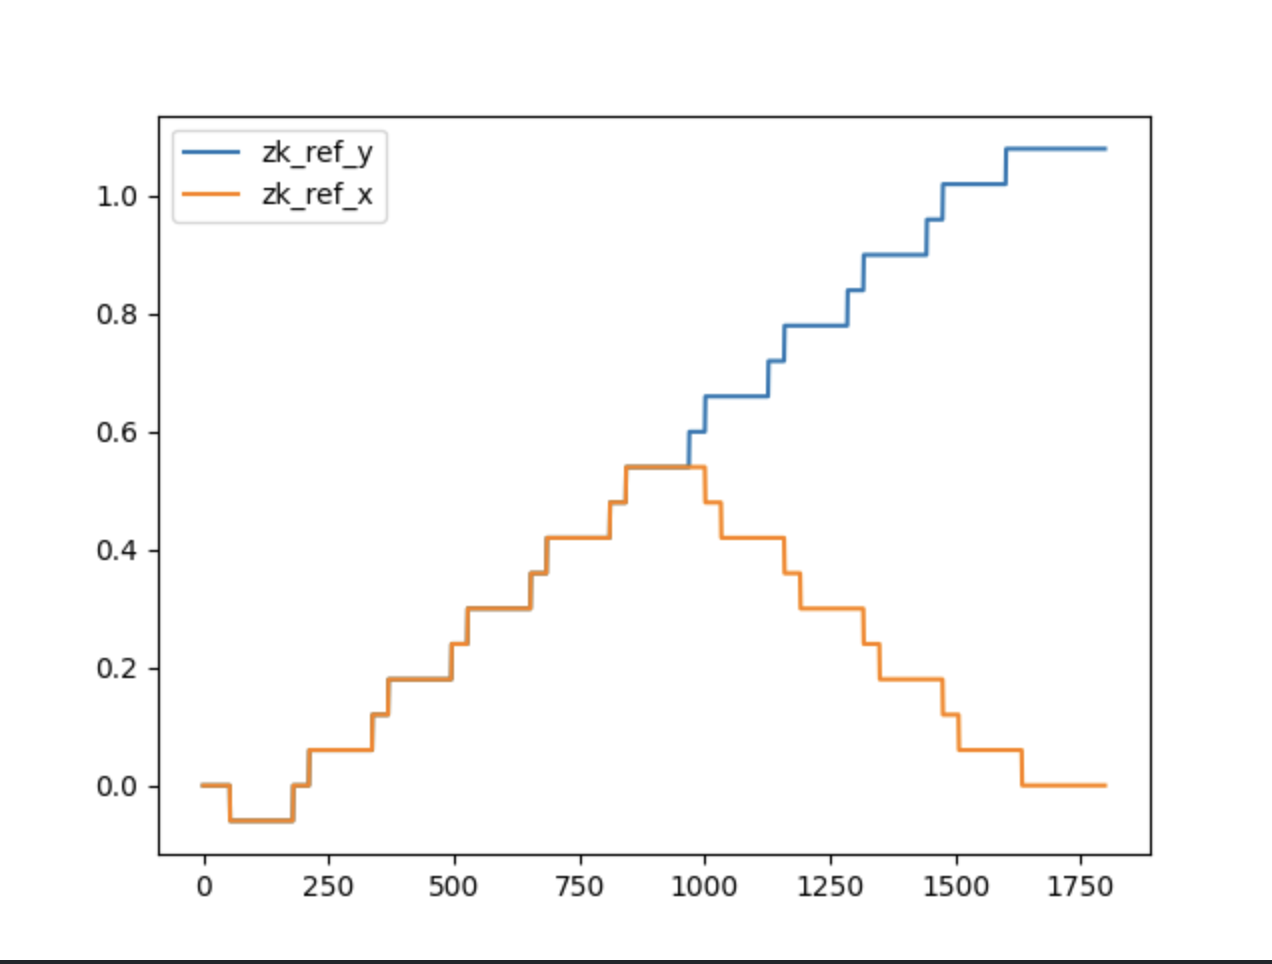
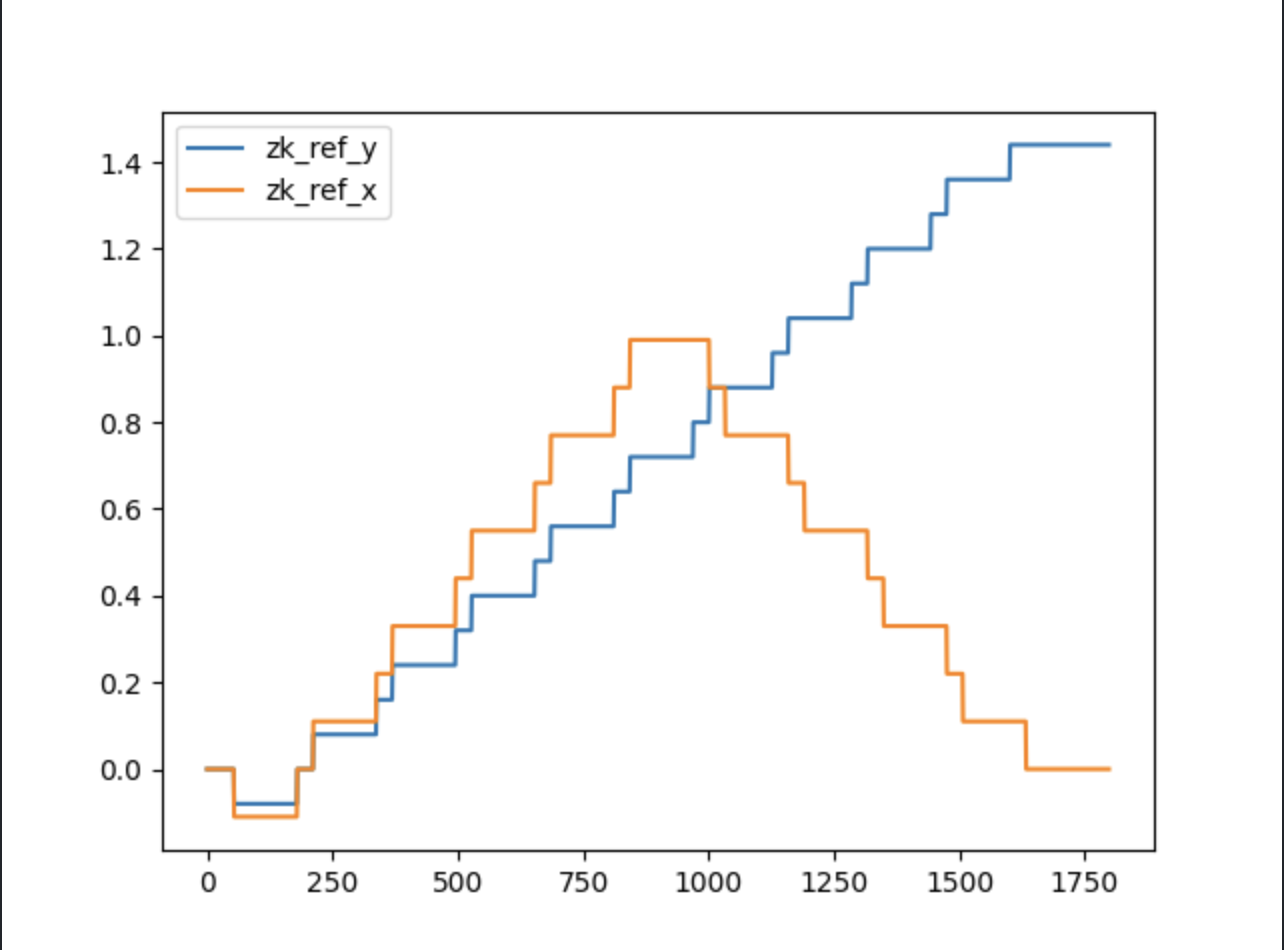
circular trajectory sin

Changed region(s): [[0.0613, 0.0916, 0.9198, 0.9463], [0.0, 0.9768, 1.0, 1.0], [0.4906, 0.3358, 0.5519, 0.3663]]

diff --git a/src/utils.py b/src/utils.py
@@ -271,8 +271,6 @@ def construct_zmin_zmax_moving2(steps, duration_double_init, duration_step, dura
         zk_min += [(step_number-1) * foot_size] * int(steps * duration_transition)
         zk_max += [(step_number+1) * foot_size] * int(steps * duration_transition)
 
-
-
     #The robot starts moving backwards
     for step_number in range(int(duration_back * number_of_steps), number_of_steps):
         if step_number == int(duration_back * number_of_steps):
@@ -300,6 +298,145 @@ def construct_zmin_zmax_moving2(steps, duration_double_init, duration_step, dura
 
 
 
+
+
+def construct_zmin_zmax_sin(steps, duration_double_init, duration_step, duration_transition,
+                        foot_size, spacing, number_of_periods):
+    """
+        The robot moves forward to a certain point, then moves backwards
+        Construct the minimum and maximum for the center of pressure
+        This is for a moving robot
+        The duration of the support is expressed as percentage of steps
+        The values of the double support are in [min_val_left, max_val_right]
+        :param steps: number of steps of the whole simulation
+               duration_back: the moment where the robot starts going backwards
+        :return: two arrays z_min and z_max
+        """
+
+    # Initial double support
+    zk_max = [foot_size] * int(steps * duration_double_init)
+    zk_min = [-foot_size] * int(steps * duration_double_init)
+
+    zk_min_up, zk_max_up = construct_half_period_up(int(steps * (1/(2*number_of_periods))), foot_size, duration_step,
+                                                    duration_transition)
+
+    zk_min_down, zk_max_down = construct_half_period_down(int(steps * (1/(2*number_of_periods))), foot_size, duration_step,
+                                                          duration_transition)
+
+
+    for _ in range(number_of_periods):
+        zk_min += zk_min_up + zk_min_down
+        zk_max += zk_max_up + zk_max_down
+    zk_min += [zk_min[-1]] * abs(steps - len(zk_min))
+    zk_max += [zk_max[-1]] * abs(steps - len(zk_max))
+
+    return np.array(zk_min), np.array(zk_max)
+
+
+def construct_half_period_down(steps, foot_size, duration_step, duration_transition):
+    zk_min, zk_max = [], []
+    # Lifting foot first step
+    zk_max += [foot_size] * int(steps * duration_step)
+    zk_min += [0] * int(steps * duration_step)
+
+    # First Transition
+    zk_max += [foot_size] * int(steps * duration_transition)
+    zk_min += [-foot_size] * int(steps * duration_transition)
+
+    # Number of steps to take
+    number_of_steps = int((steps - len(zk_min)) / ((duration_step + duration_transition) * steps))
+
+    for step_number in range(1, int(0.5 * number_of_steps)):
+        # Lifting foot for a step
+        zk_max += [-(step_number - 1) * foot_size] * int(steps * duration_step)
+        zk_min += [-step_number * foot_size] * int(steps * duration_step)
+        # Transition
+        zk_max += [-(step_number - 1) * foot_size] * int(steps * duration_transition)
+        zk_min += [-(step_number + 1) * foot_size] * int(steps * duration_transition)
+
+    # The robot starts moving backwards
+    for step_number in range(int(0.5 * number_of_steps), number_of_steps):
+        if step_number == int(0.5 * number_of_steps):
+            # Lifting foot for a step
+            zk_max += [-(number_of_steps - step_number - 1) * foot_size] * int(steps * duration_step)
+            zk_min += [-(number_of_steps - 1 - step_number + 1) * foot_size] * int(steps * duration_step)
+            # Transition
+            zk_max += [-(number_of_steps - step_number - 1) * foot_size] * int(steps * duration_transition)
+            zk_min += [-(number_of_steps - 1 - step_number + 1) * foot_size] * int(steps * duration_transition)
+            # Transition
+            zk_max += [-(number_of_steps - 1 - step_number - 1) * foot_size] * int(steps * duration_transition)
+            zk_min += [-(number_of_steps - 1 - step_number + 1) * foot_size] * int(steps * duration_transition)
+        elif step_number == number_of_steps-1:
+            # This function is mainly used for the sin and cos functions, and we don't want to stop (No double support)
+            # between half periods, the transition will be accounted for in the beginning of the following references
+            # Lifting foot for a step
+            # Lifting foot for a step
+            zk_max += [-(number_of_steps - step_number - 1) * foot_size] * int(steps * duration_step)
+            zk_min += [-(number_of_steps - 1 - step_number + 1) * foot_size] * int(steps * duration_step)
+
+        else:
+            # Lifting foot for a step
+            zk_max += [-(number_of_steps - step_number - 1) * foot_size] * int(steps * duration_step)
+            zk_min += [-(number_of_steps - 1 - step_number + 1) * foot_size] * int(steps * duration_step)
+            # Transition
+            zk_max += [-(number_of_steps - 1 - step_number - 1) * foot_size] * int(steps * duration_transition)
+            zk_min += [-(number_of_steps - 1 - step_number + 1) * foot_size] * int(steps * duration_transition)
+
+
+    return zk_min, zk_max
+
+
+
+def construct_half_period_up(steps, foot_size, duration_step, duration_transition):
+
+    zk_min, zk_max = [], []
+    # Lifting foot first step
+    zk_min += [-foot_size] * int(steps * duration_step)
+    zk_max += [0] * int(steps * duration_step)
+
+    # First Transition
+    zk_min += [-foot_size] * int(steps * duration_transition)
+    zk_max += [foot_size] * int(steps * duration_transition)
+
+    # Number of steps to take
+    number_of_steps = int((steps - len(zk_min)) / ((duration_step + duration_transition) * steps))
+
+    for step_number in range(1, int(0.5 * number_of_steps)):
+        # Lifting foot for a step
+        zk_min += [(step_number - 1) * foot_size] * int(steps * duration_step)
+        zk_max += [step_number * foot_size] * int(steps * duration_step)
+        # Transition
+        zk_min += [(step_number - 1) * foot_size] * int(steps * duration_transition)
+        zk_max += [(step_number + 1) * foot_size] * int(steps * duration_transition)
+
+    # The robot starts moving backwards
+    for step_number in range(int(0.5 * number_of_steps), number_of_steps):
+        if step_number == int(0.5 * number_of_steps):
+            # Lifting foot for a step
+            zk_min += [(number_of_steps - step_number - 1) * foot_size] * int(steps * duration_step)
+            zk_max += [(number_of_steps - 1 - step_number + 1) * foot_size] * int(steps * duration_step)
+            # Transition
+            zk_min += [(number_of_steps - step_number - 1) * foot_size] * int(steps * duration_transition)
+            zk_max += [(number_of_steps - 1 - step_number + 1) * foot_size] * int(steps * duration_transition)
+            # Transition
+            zk_min += [(number_of_steps - 1 - step_number - 1) * foot_size] * int(steps * duration_transition)
+            zk_max += [(number_of_steps - 1 - step_number + 1) * foot_size] * int(steps * duration_transition)
+        elif step_number == number_of_steps-1:
+            # This function is mainly used for the sin and cos functions, and we don't want to stop (No double support)
+            # between half periods, the transition will be accounted for in the beginning of the following references
+            # Lifting foot for a step
+            # Lifting foot for a step
+            zk_min += [(number_of_steps - step_number - 1) * foot_size] * int(steps * duration_step)
+            zk_max += [(number_of_steps - 1 - step_number + 1) * foot_size] * int(steps * duration_step)
+        else:
+            # Lifting foot for a step
+            zk_min += [(number_of_steps - step_number - 1) * foot_size] * int(steps * duration_step)
+            zk_max += [(number_of_steps - 1 - step_number + 1) * foot_size] * int(steps * duration_step)
+            # Transition
+            zk_min += [(number_of_steps - 1 - step_number - 1) * foot_size] * int(steps * duration_transition)
+            zk_max += [(number_of_steps - 1 - step_number + 1) * foot_size] * int(steps * duration_transition)
+
+    return zk_min, zk_max
 
 
 def construct_zref(steps):

diff --git a/src/circle.py b/src/circle.py
@@ -1,0 +1,84 @@
+from utils import *
+from simulations import *
+import matplotlib.pyplot as plt
+
+
+
+
+def main():
+    t_step = 5e-3
+    # We simulate from 0 to 9 (s)
+    steps = int(9 / t_step)
+    g = 9.81
+    h_com = 0.8
+    r_q = 1e-6
+    xk_init = (0, 0, 0)
+    yk_init = (0, 0, 0)
+
+    alpha = 1
+    gamma = 1
+    theta_ref = np.array([np.pi/4 for _ in range(steps)])
+    foot_dimensions = np.array([0.12, 0.06])  # length x width
+
+
+    zk_min_x, zk_max_x = construct_zmin_zmax_sin(steps=steps, duration_double_init=0.03,
+                                                    duration_step=0.07, duration_transition=0.018, foot_size=0.22,
+                                                    spacing=0.14, number_of_periods=10)
+
+    plt.plot(zk_min_x, label="zk_min")
+    plt.plot(zk_max_x, label="zk_max")
+    plt.plot((zk_min_x + zk_max_x)/2, label="zk_ref", linewidth="0.4")
+    plt.legend()
+    plt.show()
+
+    # zk_min_y, zk_max_y = construct_zmin_zmax_moving(steps=steps, duration_double_init=0.03,
+    #                                                  duration_step=0.07, duration_transition=0.018, foot_size=0.16,
+    #                                                  spacing=0.14)
+    #
+    # zk_ref_x = (zk_min_x + zk_max_x)/2
+    # zk_ref_y = (zk_min_y + zk_max_y)/2
+    #
+    # plt.plot(zk_ref_y, label="zk_ref_y")
+    # plt.plot(zk_ref_x, label="zk_ref_x")
+    # plt.legend()
+    # plt.show()
+    #
+    # cop_x, com_x, cop_y, com_y, t = simulation_qp_coupled(t_step, steps, g, h_com, xk_init, yk_init,
+    #                                                       zk_ref_x, zk_ref_y,
+    #                                                       alpha, gamma, theta_ref, foot_dimensions)
+    #
+    # # cop_lateral, com_lateral, cop_forward, com_forward, zk_min_lat, zk_max_lat, zk_min_forward, zk_max_forward, x = \
+    # #     simulation_x_y_decoupled(t_step, steps, g, h_com, xk_init, yk_init)
+    #
+    # plt.plot(t, zk_ref_y[:len(cop_y)], linestyle="--", linewidth=0.2, color="gray")
+    # plt.plot(t, cop_y, color="green", label="cop", linewidth=0.7)
+    # # plt.scatter(x, cop, s=0.5)
+    # plt.plot(t, com_y, color="red", label="com", linewidth=1)
+    # plt.title("Lateral motion of the robot")
+    # plt.xlabel("time(s)")
+    # plt.ylabel("y")
+    # plt.legend(loc="upper right")
+    # plt.show()
+    #
+    # plt.plot(t, zk_ref_x[:len(cop_x)], linestyle="--", linewidth=0.2, color="gray")
+    # plt.plot(t, cop_x, color="green", label="cop", linewidth=0.7)
+    # # plt.scatter(x, cop, s=0.5)
+    # plt.plot(t, com_x, color="red", label="com", linewidth=1)
+    # plt.title("Forward motion of the robot")
+    # plt.xlabel("time(s)")
+    # plt.ylabel("x")
+    # plt.legend(loc="upper right")
+    # plt.show()
+    #
+    # plt.plot(com_x, com_y, label="com trajectory", color="red")
+    # plt.plot(cop_x, cop_y, label="cop trajectory", color="green")
+    # plt.title("Trajectory of cop and com")
+    # plt.xlabel("x")
+    # plt.ylabel("y")
+    # plt.legend()
+    # plt.show()
+
+
+if __name__ == "__main__":
+    main()
+

diff --git a/src/forward_backward.py b/src/forward_backward.py
@@ -24,11 +24,11 @@ def main():
     support_values_lat = [-0.13, -0.07, 0.07, 0.13]
 
     zk_min_x, zk_max_x = construct_zmin_zmax_moving2(steps=steps, duration_double_init=0.03,
-                                                    duration_step=0.07, duration_transition=0.018, foot_size=0.12,
+                                                    duration_step=0.07, duration_transition=0.018, foot_size=0.22,
                                                     spacing=0.14, duration_back=0.5)
 
     zk_min_y, zk_max_y = construct_zmin_zmax_moving(steps=steps, duration_double_init=0.03,
-                                                     duration_step=0.07, duration_transition=0.018, foot_size=0.12,
+                                                     duration_step=0.07, duration_transition=0.018, foot_size=0.16,
                                                      spacing=0.14)
 
     zk_ref_x = (zk_min_x + zk_max_x)/2
